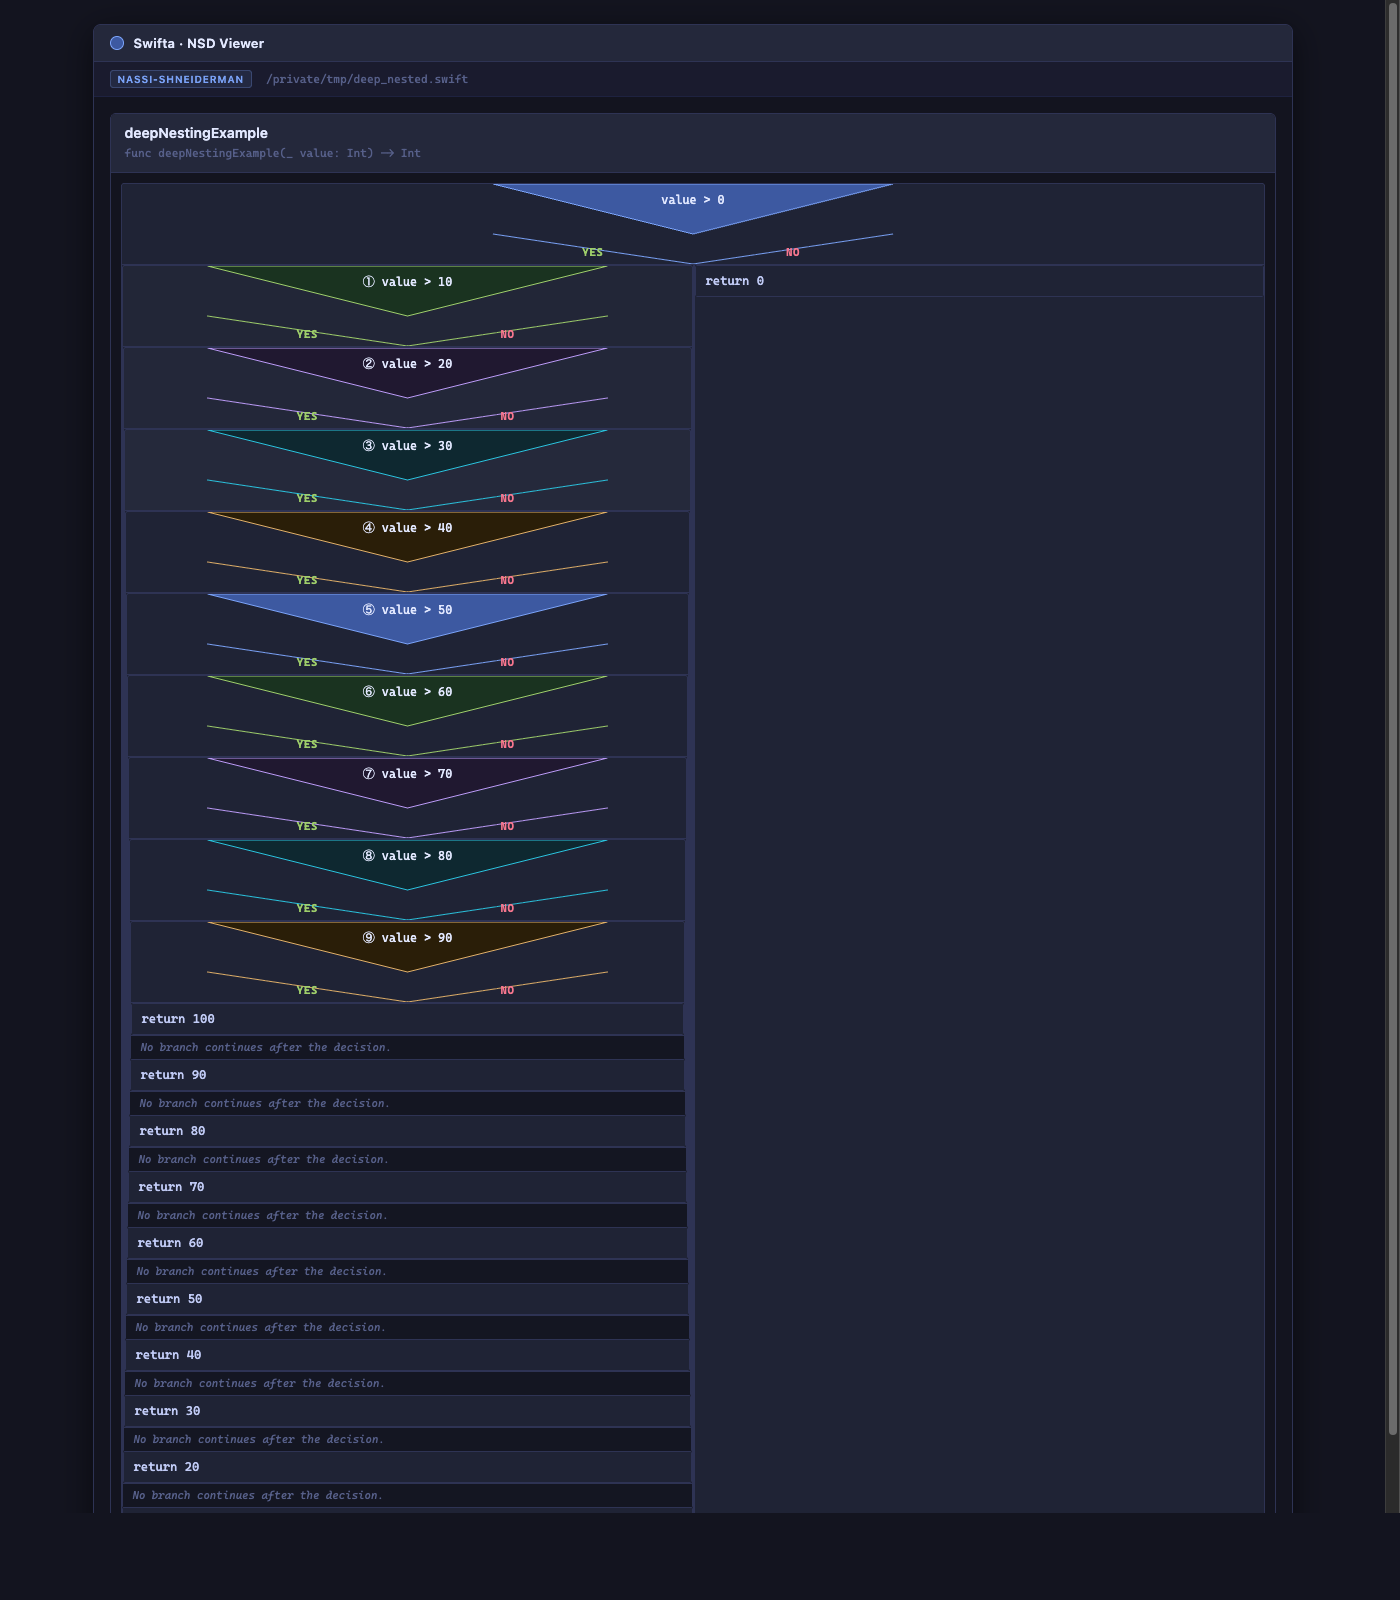
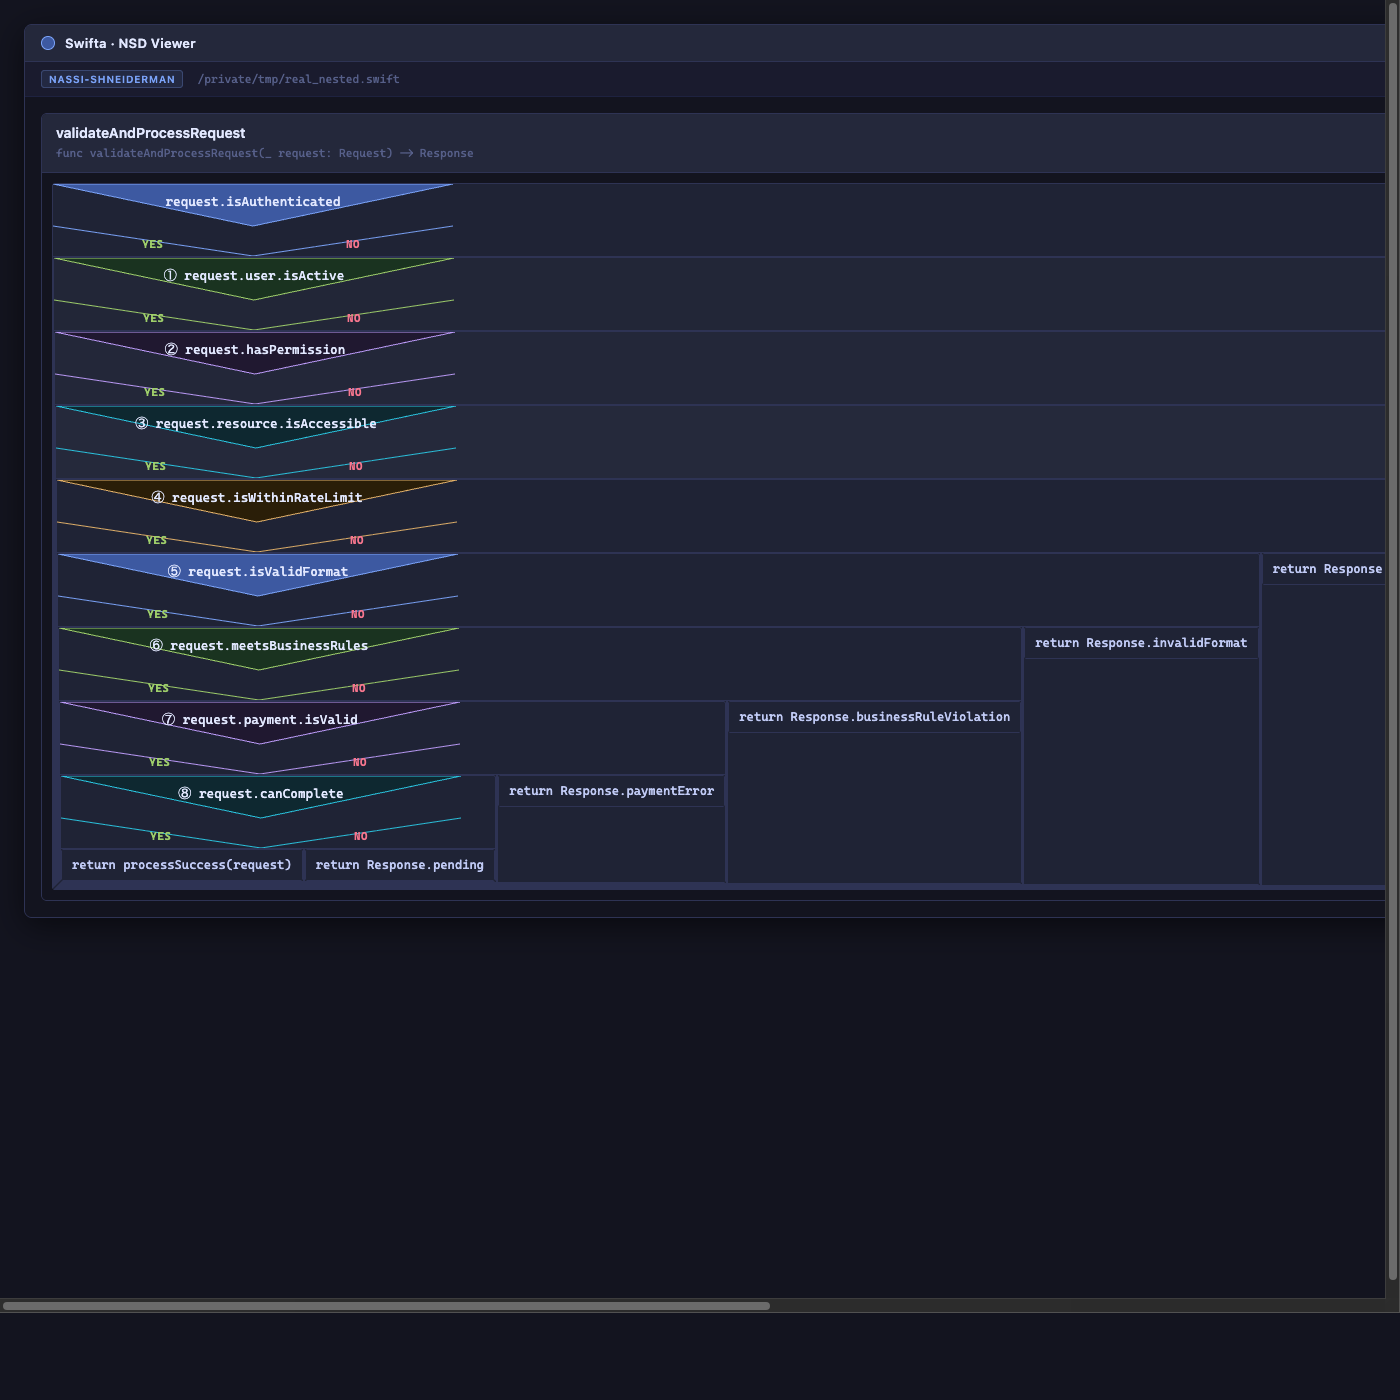
.

diff --git a/src/swifta/infrastructure/rendering/nassi_html_renderer.py b/src/swifta/infrastructure/rendering/nassi_html_renderer.py
@@ -3,6 +3,8 @@
 from __future__ import annotations
 
 from html import escape
+from math import ceil
+import re
 
 from swifta.domain.control_flow import (
     ActionFlowStep,
@@ -294,9 +296,7 @@ class HtmlNassiDiagramRenderer(NassiDiagramRenderer):
       }}
       .ns-if-svg {{
         display: block;
-        width: 100%;
         height: auto;
-        max-height: 80px;
       }}
       .ns-if-triangle {{
         fill: var(--blue-dim);
@@ -312,7 +312,7 @@ class HtmlNassiDiagramRenderer(NassiDiagramRenderer):
       }}
       .ns-if-condition-text {{
         font-family: var(--mono);
-        font-size: 12px;
+        font-size: 13px;
         font-weight: 500;
         color: var(--text-bright);
         text-align: center;
@@ -610,22 +610,60 @@ class HtmlNassiDiagramRenderer(NassiDiagramRenderer):
         escaped = escape(title)
         return f'<div class="ns-header" aria-label="{escaped}">{escaped}</div>'
 
+    def _if_cap_geometry(self, condition: str, badge: str) -> tuple[int, int, int, int, int]:
+        text = f"{badge} {condition}".strip()
+        char_count = max(len(text), 12)
+        tokens = [token for token in re.split(r"\s+", text) if token]
+        longest_token = max((len(token) for token in tokens), default=char_count)
+
+        content_width = max(
+            360,
+            min(
+                1600,
+                max(longest_token * 8 + 48, ceil(char_count / 2) * 7 + 64),
+            ),
+        )
+        svg_width = content_width + 40
+        chars_per_line = max(18, int(content_width / 7.4))
+        line_count = max(
+            1,
+            ceil(char_count / chars_per_line),
+            ceil(longest_token / chars_per_line),
+        )
+        text_height = 24 + (line_count - 1) * 17
+        split_y = 18 + text_height
+        svg_height = split_y + 30
+        return svg_width, svg_height, content_width, text_height, split_y
+
     def _render_if_cap(self, condition: str, *, depth: int = 0) -> str:
         escaped = escape(condition)
         d = min(depth, 50)
         badge = self._depth_badge(d)
-        # SVG with foreignObject for proper text wrapping
+        svg_width, svg_height, content_width, text_height, split_y = self._if_cap_geometry(
+            condition,
+            badge,
+        )
+        half_width = svg_width / 2
+        yes_x = svg_width / 4
+        no_x = svg_width * 0.75
+        label_y = svg_height - 8
+
         return (
             f'<div class="ns-if-cap ns-if-depth-{d}" aria-label="If {escaped}">'
-            '<svg class="ns-if-svg" viewBox="0 0 400 80" preserveAspectRatio="xMidYMid meet">'
-            f'<polygon points="0,0 400,0 200,50" class="ns-if-triangle ns-if-depth-{d}-triangle"/>'
-            f'<foreignObject x="20" y="5" width="360" height="45" class="ns-if-condition-fo">'
+            f'<svg class="ns-if-svg" viewBox="0 0 {svg_width} {svg_height}" '
+            f'width="{svg_width}" height="{svg_height}" preserveAspectRatio="xMidYMid meet">'
+            f'<polygon points="0,0 {svg_width},0 {half_width},{split_y}" '
+            f'class="ns-if-triangle ns-if-depth-{d}-triangle"/>'
+            f'<foreignObject x="20" y="6" width="{content_width}" height="{text_height}" '
+            'class="ns-if-condition-fo">'
             f'<div xmlns="http://www.w3.org/1999/xhtml" class="ns-if-condition-text">{badge} {escaped}</div>'
             '</foreignObject>'
-            f'<line x1="0" y1="50" x2="200" y2="80" class="ns-if-diagonal ns-if-depth-{d}-diagonal"/>'
-            f'<line x1="400" y1="50" x2="200" y2="80" class="ns-if-diagonal ns-if-depth-{d}-diagonal"/>'
-            f'<text x="100" y="72" text-anchor="middle" class="ns-if-label-yes">Yes</text>'
-            f'<text x="300" y="72" text-anchor="middle" class="ns-if-label-no">No</text>'
+            f'<line x1="0" y1="{split_y}" x2="{half_width}" y2="{svg_height}" '
+            f'class="ns-if-diagonal ns-if-depth-{d}-diagonal"/>'
+            f'<line x1="{svg_width}" y1="{split_y}" x2="{half_width}" y2="{svg_height}" '
+            f'class="ns-if-diagonal ns-if-depth-{d}-diagonal"/>'
+            f'<text x="{yes_x}" y="{label_y}" text-anchor="middle" class="ns-if-label-yes">Yes</text>'
+            f'<text x="{no_x}" y="{label_y}" text-anchor="middle" class="ns-if-label-no">No</text>'
             '</svg>'
             "</div>"
         )

diff --git a/tests/test_nassi_diagrams.py b/tests/test_nassi_diagrams.py
@@ -430,6 +430,8 @@ class TestIfDepthRendering:
         assert 'class="ns-if-cap ns-if-depth-0"' in html
         assert '<svg class="ns-if-svg"' in html
         assert "x &gt; 0" in html
+        assert 'width="400"' in html
+        assert 'height="72"' in html
 
     def test_render_if_cap_at_depth_five(self) -> None:
         renderer = HtmlNassiDiagramRenderer()
@@ -466,6 +468,20 @@ class TestIfDepthRendering:
         html = renderer._render_if_cap("x > 0", depth=100)
         assert 'class="ns-if-cap ns-if-depth-50"' in html
         assert "㊿" in html
+
+    def test_render_if_cap_expands_svg_for_long_conditions(self) -> None:
+        renderer = HtmlNassiDiagramRenderer()
+        html = renderer._render_if_cap(
+            "request.user.profile.permissions.canAccessScopedResource && "
+            "request.executionContext.region.isAllowedForThisOperation",
+            depth=2,
+        )
+        match = re.search(r'viewBox="0 0 (\d+) (\d+)"', html)
+        assert match is not None
+        width = int(match.group(1))
+        height = int(match.group(2))
+        assert width > 400
+        assert height >= 72
 
     def test_nested_ifs_in_html_output(self) -> None:
         service = _build_service()
